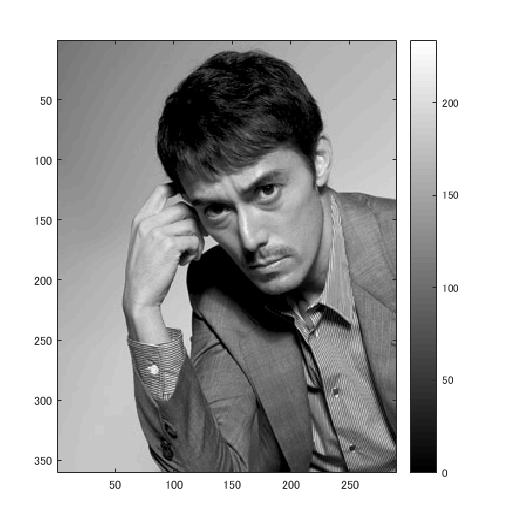
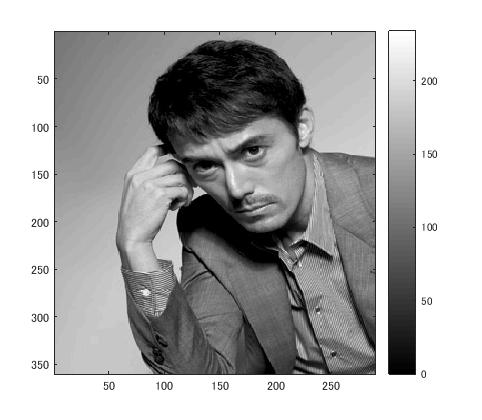
Add files via upload

diff --git a/kadai1.md b/kadai1.md
@@ -1,13 +1,13 @@
-# 課題１レポート
+# 課題１レポート（サンプル）
 
-標準画像「hiroshi_master」を原画像とする．この画像は縦360画像，横290画素による正方形のディジタルカラー画像である．
+標準画像「Lenna」を原画像とする．この画像は縦512画像，横512画素による正方形のディジタルカラー画像である．
 
-ORG=imread('hiroshi_master.jpg'); % 原画像の入力  
+ORG=imread('Lenna.png'); % 原画像の入力  
 imagesc(ORG); axis image; % 画像の表示
 
 によって，原画像を読み込み，表示した結果を図１に示す．
 
-![原画像](https://github.com/Obonnu/lecture_image_processing/blob/master/image/hiroshi_kadai1-1.jpg)  
+![原画像](https://github.com/mackhasegawa/lecture_image_processing/blob/master/image/org_img.png?raw=true)  
 図1 原画像
 
 原画像を1/2サンプリングするには，画像を1/2倍に縮小した後，2倍に拡大すればよい．なお，拡大する際には，単純補間するために「box」オプションを設定する．
@@ -17,7 +17,7 @@ IMG2 = imresize(IMG,2,'box'); % 画像の拡大
 
 1/2サンプリングの結果を図２に示す．
 
-![原画像]()  
+![原画像](https://github.com/mackhasegawa/lecture_image_processing/blob/master/image/kadai1_1.png?raw=true)  
 図2 1/2サンプリング
 
 同様に原画像を1/4サンプリングするには，画像を1/2倍に縮小した後，2倍に拡大すればよい．すなわち，
@@ -27,7 +27,7 @@ IMG2 = imresize(IMG,2,'box'); % 画像の拡大
 
 とする．1/4サンプリングの結果を図３に示す．
 
-![原画像]()  
+![原画像](https://github.com/mackhasegawa/lecture_image_processing/blob/master/image/kadai1_2.png?raw=true)  
 図3 1/4サンプリング
 
 1/8から1/32サンプリングは，
@@ -37,13 +37,13 @@ IMG2 = imresize(IMG,2,'box'); % 画像の拡大
 
 を繰り返す．サンプリングの結果を図４～６に示す．
 
-![原画像]()  
+![原画像](https://github.com/mackhasegawa/lecture_image_processing/blob/master/image/kadai1_3.png?raw=true)  
 図4 1/8サンプリング
 
-![原画像]()  
+![原画像](https://github.com/mackhasegawa/lecture_image_processing/blob/master/image/kadai1_4.png?raw=true)  
 図5 1/16サンプリング
 
-![原画像]()  
+![原画像](https://github.com/mackhasegawa/lecture_image_processing/blob/master/image/kadai1_5.png?raw=true)  
 図6 1/32サンプリング
 
 このようにサンプリング幅が大きくなると，モザイク状のサンプリング歪みが発生する．
